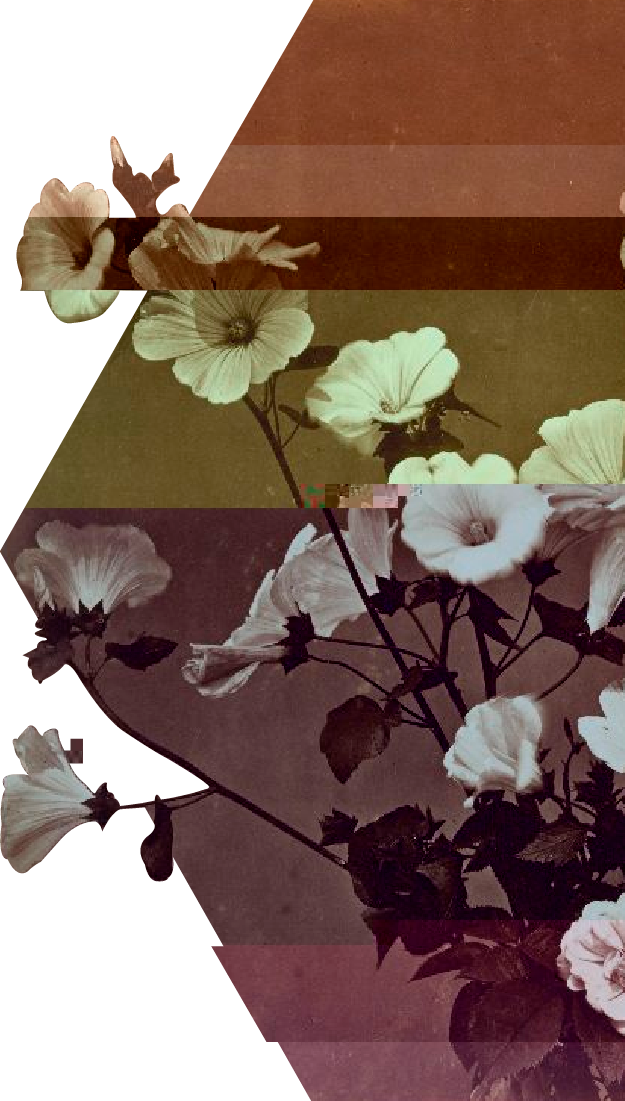
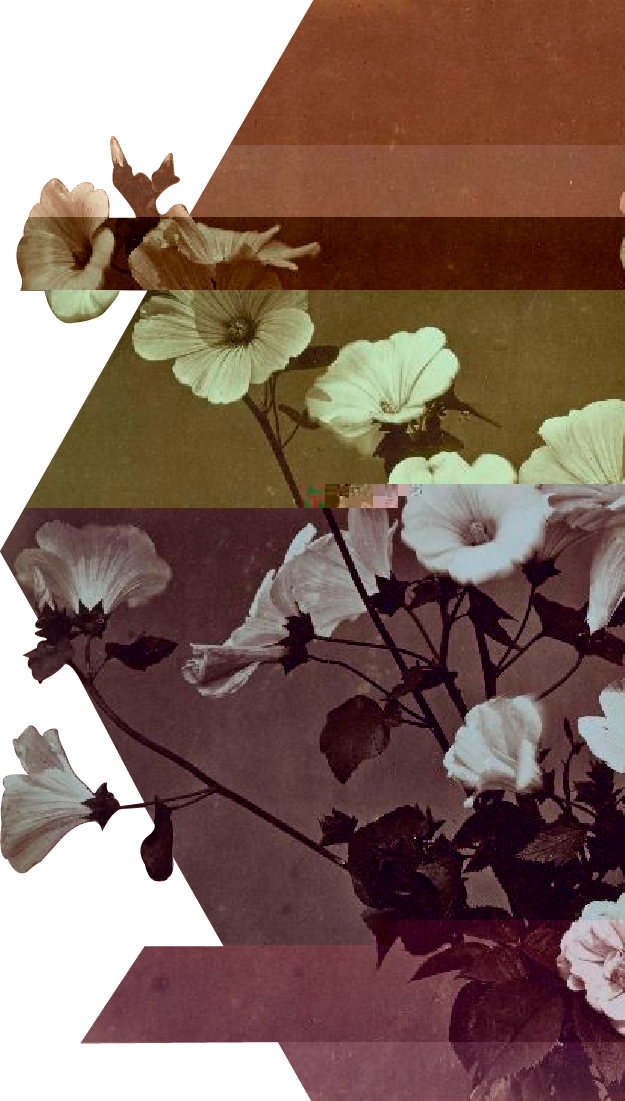
update to do

Changed region(s): [[0.1216, 0.8338, 0.4256, 0.9573], [0.0912, 0.6176, 0.3344, 0.7411]]

diff --git a/index.html b/index.html
@@ -19,7 +19,6 @@
  -->
 
 	<!-- Header -->
-
 <div class="container">
 	<div class="shape1"></div>
 	<div class="shape2"></div>
@@ -41,8 +40,6 @@
 
 	<a class="shape18" href="https://www.metmuseum.org/art/collection/search/283137" target="_blank"></a>
 	
-
-
 	<div class="shape19"></div>
 	<div class="shape20"></div>
 	<div class="shape21"></div>
@@ -65,6 +62,12 @@
 	<div class="shape38"></div>
 	<div class="shape39"></div>
 	<div class="shape40"></div>
+
+
+
+		<div class="grid1"></div>
+		<div class="grid2"></div>
+		<div class="grid3"></div>
 </div>
 
 </body>
@@ -155,4 +158,9 @@ https://www.metmuseum.org/art/collection/search/670610
 
 AA -
 https://www.metmuseum.org/art/collection/search/287950
+
+BB -
+https://www.metmuseum.org/art/collection/search/265506
+
+
  -->

diff --git a/style/style.scss b/style/style.scss
@@ -3,7 +3,7 @@ body {
     margin: 0px; 
     background-color: #191919;
 }
-// transform: scale(1);
+
 .container {
     position: relative;
     width: 750px;
@@ -44,7 +44,7 @@ $h: 66px;
 (22, 0, 6, (0 0, 4 0, 5 2, 5 3, 2.5 3, 2.5 2, 1 2), 1),
 (23, 0, 8, (0 0, 0 4, 1 4, 2 2, 1 0)),
 (24, 1, 8, (0 0, .5 1, 1.5 1, 1 0)),
-// (25, 1.5, 8, (0 1, .5 0, 1 1)),
+(25, 3, 10, (0 0, 2 0, 2 3, 0 3), 1),
 (26, 2, 8, (0 0, .5 1, 1 0)),
 (27, 1.5, 9, (0 0, .5 1, 1 0)),
 (28, 1, 8, (2 0, 3 2, 1 6, 0 4)),

diff --git a/style/style.css b/style/style.css
@@ -207,6 +207,15 @@ body {
   background-image: url("../images/image_24.png");
   clip-path: polygon(0px 0px, 37.5px 66px, 112.5px 66px, 75px 0px); }
 
+.shape25 {
+  left: 225px;
+  top: 660px;
+  width: 150px;
+  height: 198px;
+  background-image: url("../images/image_25.png");
+  clip-path: polygon(0px 0px, 150px 0px, 150px 198px, 0px 198px);
+  z-index: 1; }
+
 .shape26 {
   left: 150px;
   top: 528px;

diff --git a/README.md b/README.md
@@ -7,11 +7,12 @@ Photo glitched using:
 https://snorpey.github.io/jpg-glitch/
 
 > ### TO DO:
+> - add grid over everything
 > - if no image detected pick color or random color if not possible
 > - finish images
 > - add github readme tutorial
 > - add links to images
 > - add popup for nsfw links
-> - move old css properties to generator
+> - ~~move old css properties to generator~~
 > - ~~calculate width and height auto~~
 > - ~~add z-index calculation to sass~~
